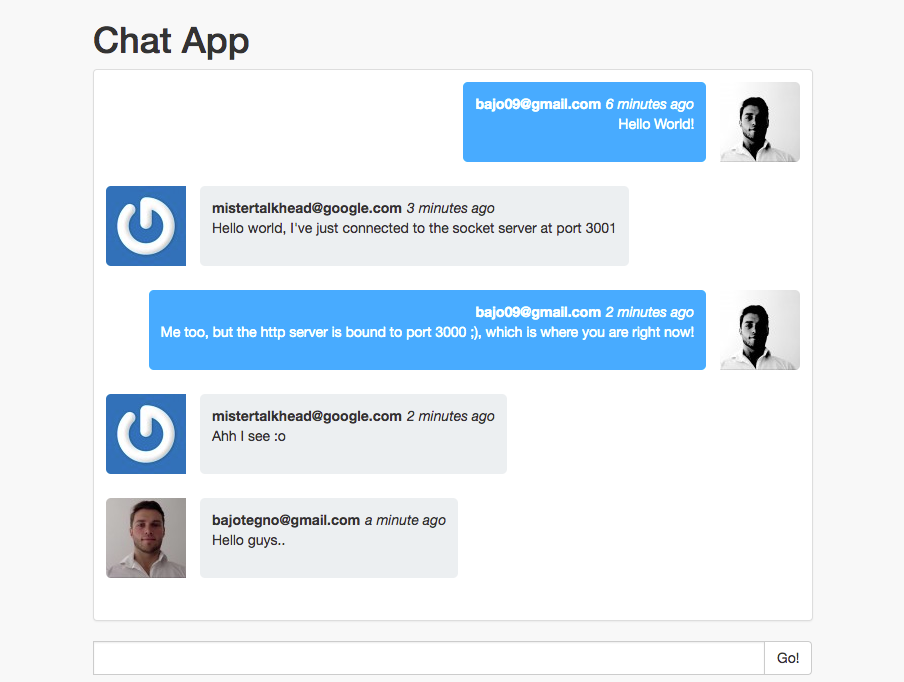
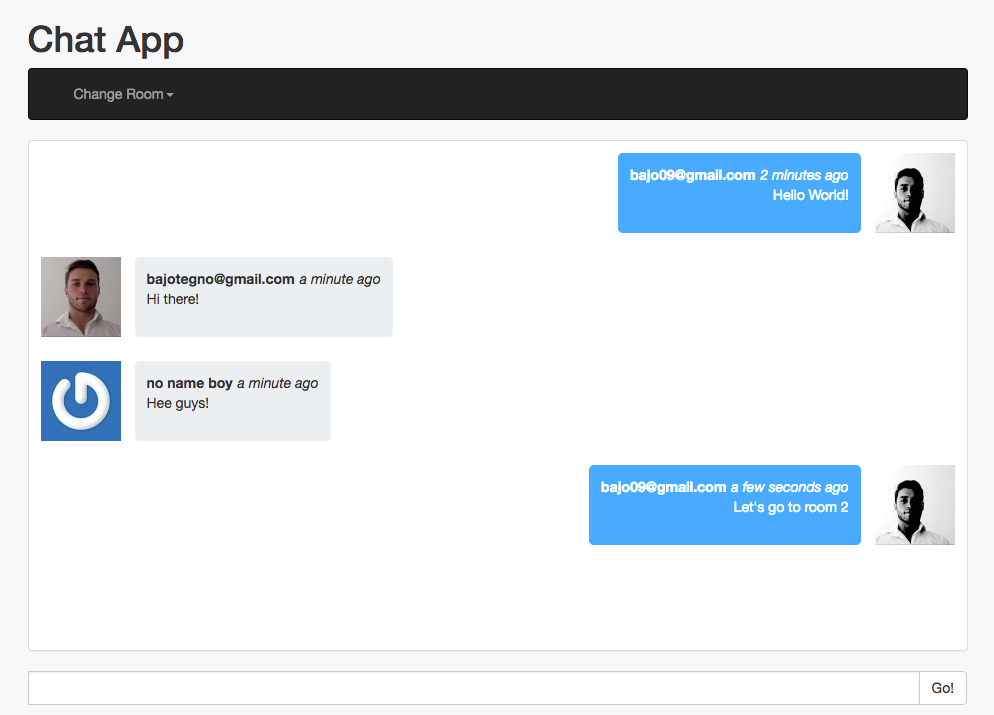
update README

diff --git a/app/scripts/src/dom.js b/app/scripts/src/dom.js
@@ -18,7 +18,7 @@ function createGravatarURL(username) {
 
 // DOM interacts with UI, prompt user for username
 export function promptForUsername() {
-    let username = prompt('Enter your username');
+    let username = prompt('Enter your username (Gravatar email)');
     return username.toLowerCase();
 }
 

diff --git a/app/stylesheets/styles.css b/app/stylesheets/styles.css
@@ -43,7 +43,6 @@ ul, ul.panel-body {
 .message-row img {
     padding-right: 1em;
     /* flex: auto; */
-    border-radius: 5px;
 }
 
 .message-row p {

diff --git a/README.md b/README.md
@@ -10,8 +10,34 @@ A chat app experiment consisting of a Node.js server and a JavaScript app runnin
 4. Open a new browser page on http://localhost:3000/
 5. Enter an email address as your chat username
     * Ideally an email address bound to a [Gravatar](https://en.gravatar.com/) account
-6. Each new browser tab represents a new user, connecting to the same socket stream at `ws port 3001` (same chat room)
+6. Each new browser tab kicks of a new socket stream, binding to `ws port 3001` connecting to chat room 1 by default
+7. Switch chat rooms with the dropdown
 
-###### ToDo
-* Add better styling, throw away bootstrap
+## Architecture
+
+#### Server Side
+###### HTTP server
+   * Handle HTTP requests & transform file-paths  
+   * Import websocket-server   
+* **Websocket Server**
+   * Listens to new client socket connections
+   * Registers users and places them in rooms
+   * Broadcasts messages and configures new users with message history
+
+#### Client Side
+###### App Module
+   * Define the structure of messages
+   * Pass messages between client socket class and DOM
+
+###### DOM Module
+   * Queries the DOM, and acts as interface to App module
+###### Websocket Client Module
+   * Manage WebSockets communication for the client
+   * Connection handlers, message handlers etc.
+
+![Screenshot of the app](repomedia/Diagram.png)
+
+
+## ToDo
+* Better styling, throw away bootstrap
 * Add cool chat features found in popular apps, such as, Slack
